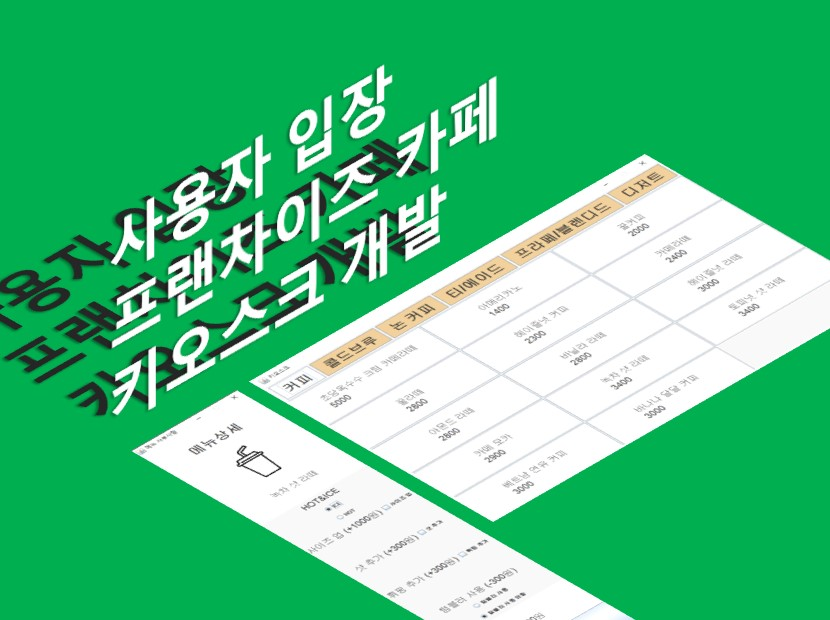
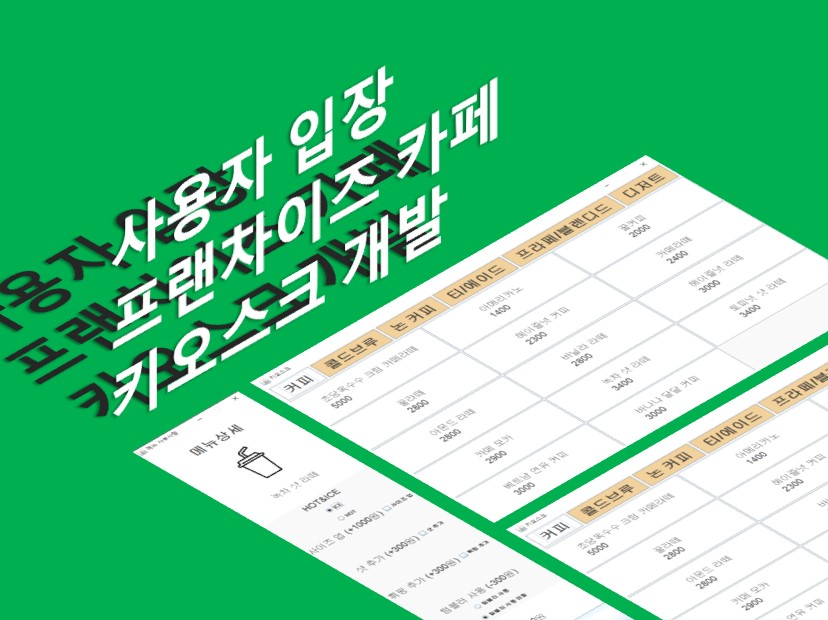
Fix: mobile layout changed

diff --git a/pages/sprouthon.vue b/pages/sprouthon.vue
@@ -11,33 +11,51 @@
         </div>
 
         <div class="max-w-7xl grid grid-cols-1 colspan mt-5 md:mt-8 pb-14 md:pb-24 mx-auto px-6">
-            <div class="group">
-                <div class=" flex items-center  py-5 md:py-8 ">
-                  <div class="sbox">
-                    <img  class="profile" :src="require(`~/assets/resources/sprouthon/01.jpg`)" alt="">
-                  </div>
-                  <div class=" px-0 md:px-4 md:pl-9 ">
-                      <p class="mb-1 md:mb-1.5 text-sm md:text-sm text-green-400">TEAM-자바보시든지</p>
-                      <a class="mb-1 md:mb-1.5 text-lg md:text-2xl font-semibold  text-white transition group-hover:text-green-300 group-hover:duration-500" href="https://github.com/hyun-hyang/SPROUTHON-YouCanGrabJAVA" target="blank">카페 키오스크 개발</a>
-                      <p class=" text-sm md:text-base text-white custom-text">임지민 · 박창훈</p>
-                  </div>
+            <div class="group hidden md:block">
+              <div class=" flex items-center  py-5 md:py-8 ">
+                <div class="sbox">
+                  <img  class="profile" :src="require(`~/assets/resources/sprouthon/01.jpg`)" alt="">
                 </div>
+                <div class=" px-0 md:px-4 md:pl-9 ">
+                  <p class="mb-1 md:mb-1.5 text-sm md:text-sm text-green-400">TEAM-자바보시든지</p>
+                  <a class="mb-1 md:mb-1.5 text-lg md:text-2xl font-semibold  text-white transition group-hover:text-green-300 group-hover:duration-500" href="https://github.com/hyun-hyang/SPROUTHON-YouCanGrabJAVA" target="blank">카페 키오스크 개발</a>
+                  <p class=" text-sm md:text-base text-white custom-text">임지민 · 박창훈</p>
+                </div>
+              </div>
             </div>
 
-            <div class="group">
-                <div class=" flex items-center  py-5 md:py-8 justify-end">
-                  <div class=" px-0 md:px-4 md:pr-9 text-right">
-                      <p class="mb-1 md:mb-1.5 text-sm md:text-sm text-green-400">TEAM-자바보시든지</p>
-                      <a class="mb-1 md:mb-1.5 text-lg md:text-2xl font-semibold  text-white transition group-hover:text-green-300 group-hover:duration-500" href="https://github.com/hyun-hyang/SPROUTHON-YouCanGrabJAVA" target="blank">카페 키오스크 개발</a>
-                      <p class=" text-sm md:text-base text-white custom-text">임지민 · 박창훈</p>
-                  </div>
-                  <div class="sbox">
-                    <img  class="profile" :src="require(`~/assets/resources/sprouthon/01.jpg`)" alt="">
-                  </div>
+            <div class="group hidden md:block">
+              <div class=" flex items-center  py-5 md:py-8 justify-end">
+                <div class=" px-0 md:px-4 md:pr-9 text-right">
+                  <p class="mb-1 md:mb-1.5 text-sm md:text-sm text-green-400">TEAM-자바보시든지</p>
+                  <a class="mb-1 md:mb-1.5 text-lg md:text-2xl font-semibold  text-white transition group-hover:text-green-300 group-hover:duration-500" href="https://github.com/hyun-hyang/SPROUTHON-YouCanGrabJAVA" target="blank">카페 키오스크 개발</a>
+                  <p class=" text-sm md:text-base text-white custom-text">임지민 · 박창훈</p>
                 </div>
+                <div class="sbox">
+                  <img  class="profile" :src="require(`~/assets/resources/sprouthon/01.jpg`)" alt="">
+                </div>
+              </div>
             </div>
-        </div>
-        
+
+            
+
+            <div class="md:hidden">
+              <img :src="require(`~/assets/resources/sprouthon/01.jpg`)" class="rounded-t-xl border-none rounded-b-xl"/>
+            </div>
+            <div class="md:hidden text-center px-4 py-6">
+              <a class="font-general-semibold text-xl text-white font-semibold mb-2 hover:text-green-400" href="https://github.com/hyun-hyang/SPROUTHON-YouCanGrabJAVA" target="blank">카페 키오스크 개발</a>
+              <p class=" text-sm md:text-base text-white custom-text">임지민 · 박창훈</p>
+            </div>
+
+            <div class="md:hidden mt-4">
+              <img :src="require(`~/assets/resources/sprouthon/01.jpg`)" class="rounded-t-xl border-none rounded-b-xl"/>
+            </div>
+            <div class="md:hidden text-center px-4 py-6">
+              <a class="font-general-semibold text-xl text-white font-semibold mb-2 hover:text-green-400" href="https://github.com/hyun-hyang/SPROUTHON-YouCanGrabJAVA" target="blank">카페 키오스크 개발</a>
+              <p class=" text-sm md:text-base text-white custom-text">임지민 · 박창훈</p>
+            </div>
+
+      </div>
     </div>
 </template>
 
